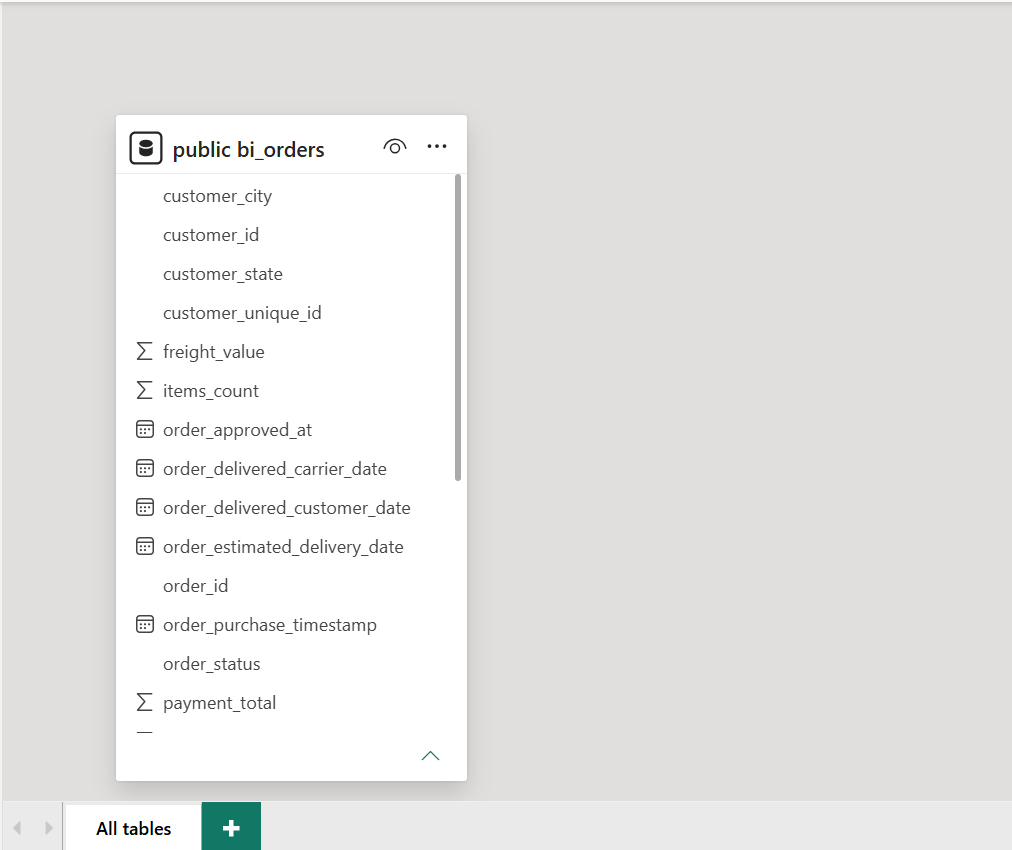
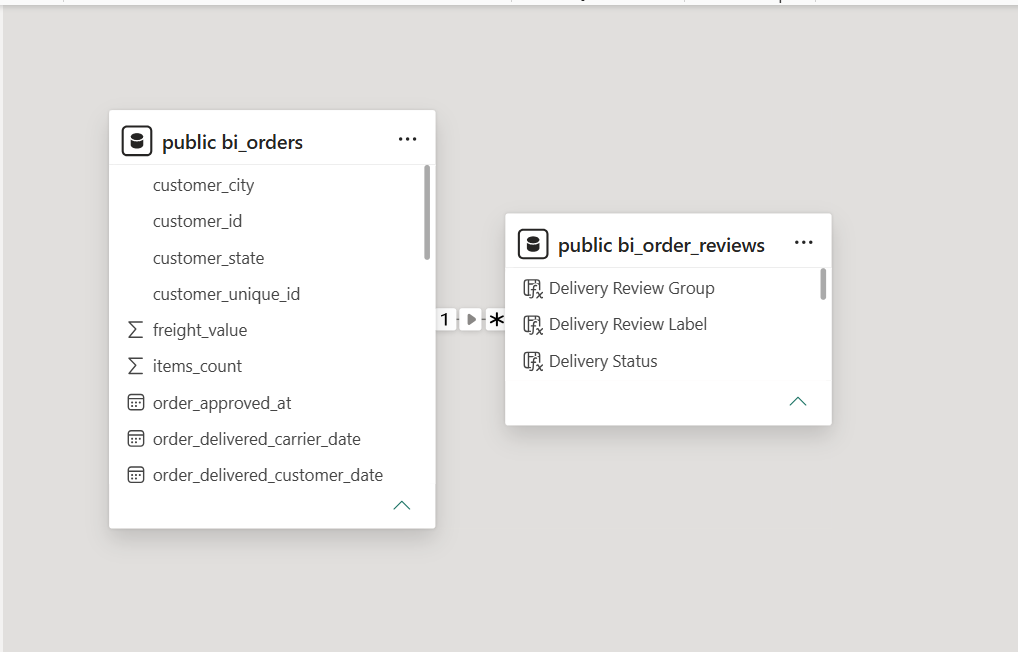
chore: finalize Power BI model cleanup and documentation

Changed region(s): [[0.0613, 0.1227, 0.8271, 1.0], [0.0, 0.0, 1.0, 0.0307]]

diff --git a/docs/data_model.md b/docs/data_model.md
@@ -81,8 +81,7 @@ The review relationship is declared many-to-one even though each order has at mo
 - **No seller or shipping fields** are imported, so seller and route views aren't possible in Power BI.
 - **Review timestamps** record when the answer was recorded, not when a customer formed or submitted a rating.
 - **Refresh** needs the local PostgreSQL database and both views. Credentials are stored by Power BI Desktop, not in the project files.
-- **Two empty measures**, `Measure` and `Measure 2`, remain from the original model and aren't used.
 
 ![Power BI model view](../screenshots/04_data_model.png)
 
-The model view screenshot shows the original single-table model, before the review table was added.
+The model view shows the two tables and the single-direction relationship from orders to reviews. Power BI hides its automatic date tables, so they and their six date relationships don't appear in this view.

diff --git a/docs/dax_measures.md b/docs/dax_measures.md
@@ -12,7 +12,7 @@ The model has two imported tables: `public bi_orders` (one row per order, all st
 - [Calculated columns](#calculated-columns)
 - [Shared rules](#shared-rules)
 - [The on-time correction](#the-on-time-correction)
-- [Empty measures](#empty-measures)
+- [Removed placeholder measures](#removed-placeholder-measures)
 
 ## Overview page measures
 
@@ -436,6 +436,6 @@ This caused two errors:
 
 The corrected result was confirmed in the Power BI engine and independently from the source CSV.
 
-## Empty measures
+## Removed placeholder measures
 
-`Measure` and `Measure 2` have no expression and aren't used by any visual. They predate the second page and are kept unchanged for now.
+`Measure` and `Measure 2` were empty placeholders left from the original training file. They had no expression, and no measure, column, visual, filter or tooltip referred to them, so they were removed from the model.

diff --git a/docs/powerbi_validation.md b/docs/powerbi_validation.md
@@ -100,9 +100,10 @@ The query is reproduced in the appendix.
 
 **Model files** (Files):
 - 9 tables; 7 relationships, including the review relationship (many-to-one, single direction, active).
-- Two model changes have been made since the 49-check run:
+- Three model changes have been made since the 49-check run:
   - Late Orders' format string changed from `0` to `#,0`.
   - A display column, Delivery Review Label, was added, so the review-timing chart's category labels fit. It maps each Delivery Review Group value to a shorter name, one to one.
+  - Two empty placeholder measures from the original training file, `Measure` and `Measure 2`, were removed. Nothing referred to them.
 - Every DAX expression that was validated is unchanged.
 
 ## 4. Report (Files, Visual)
